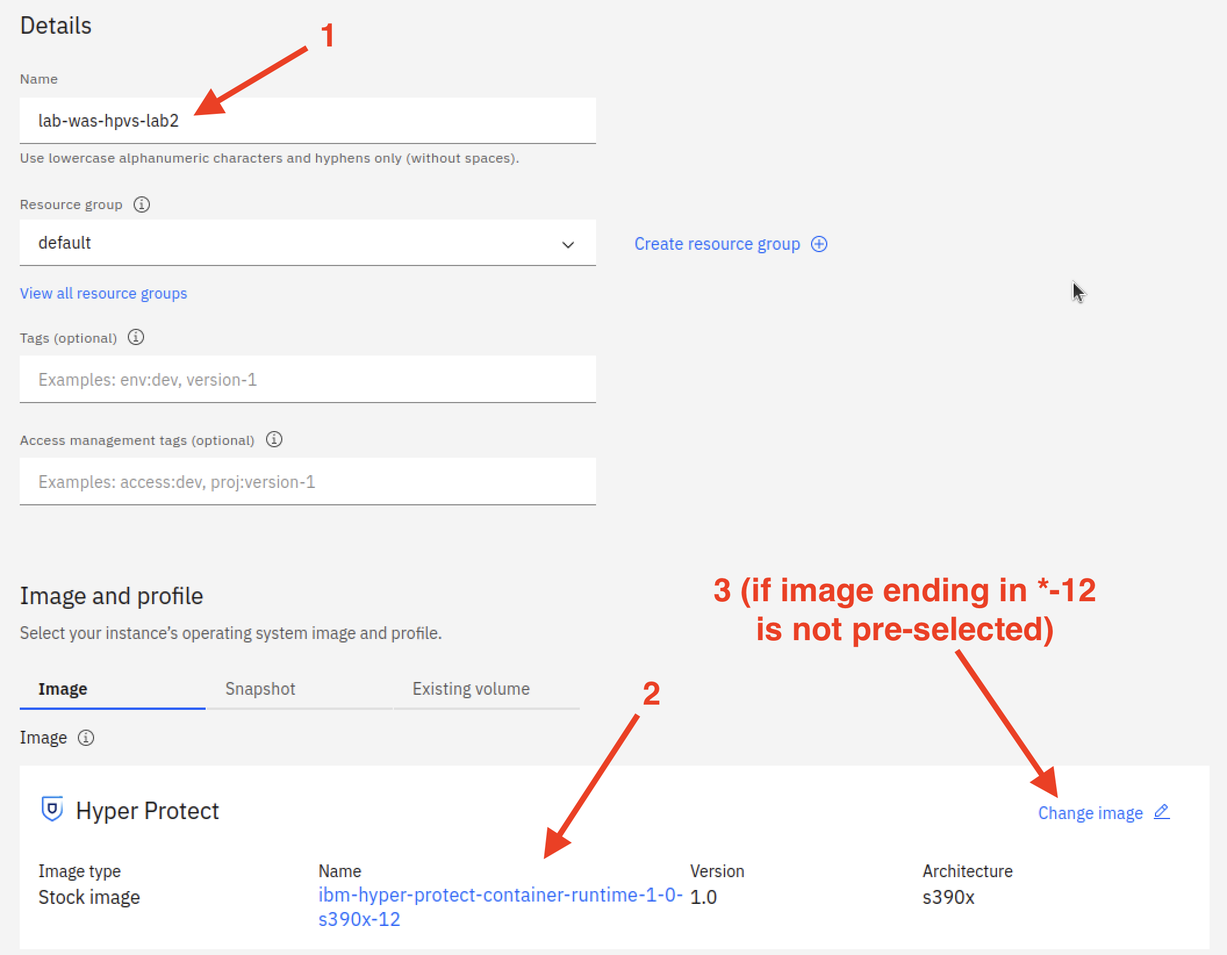
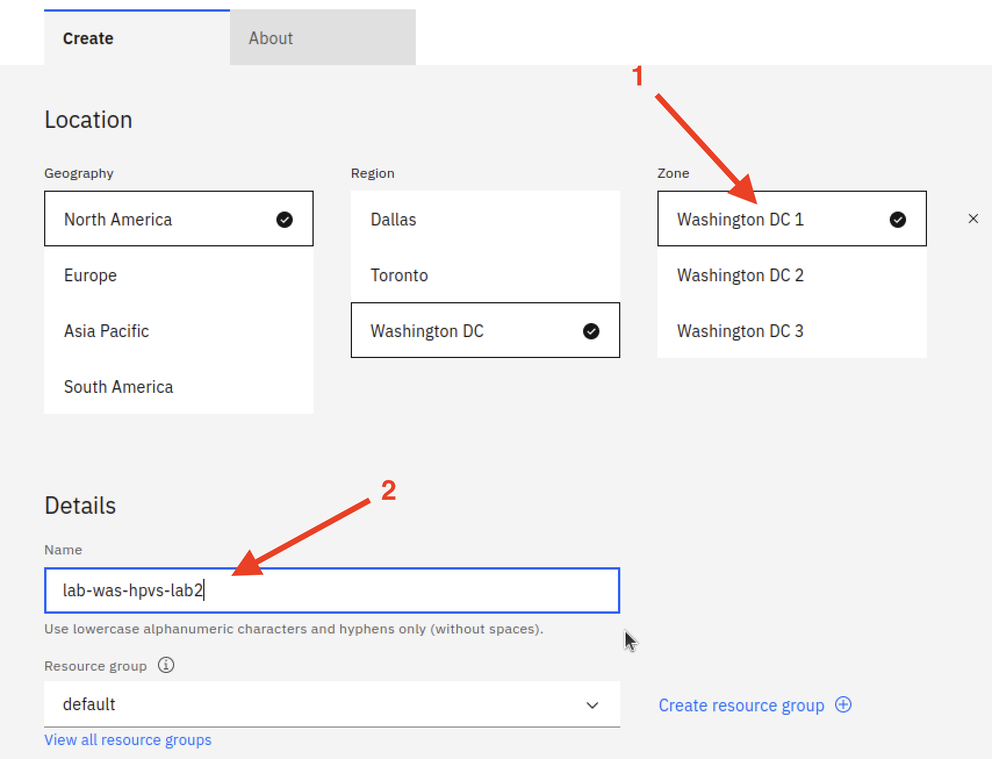
Update IBM Cloud-based labs
Notable things:
- Update to use latest HPCR image (*-13) in lieu of (*-12)
- Update to account for new UI flow to get to the HPCR image

diff --git a/docs/lab/cloud/lab4/createinstance.md b/docs/lab/cloud/lab4/createinstance.md
@@ -14,29 +14,39 @@ These instructions assume you are logged in to the IBM Cloud Web UI.  If not, pl
 
     <img src="../create020.png" width="531" height="287" />
 
-1. Click the link to create a virtual server instance
+2. Click the link to create a virtual server instance
 
     You may have to scroll down on the page- find and click on the "Create a virtual server instance" link:
 
     <img src="../create030.png" width="801" height="504" />
 
-1. In the *Architecture* section, click the **IBM Z, LinuxONE** tile.  At this point, a *Confidential Computing* toggle should appear.  Click it to select it.  Then, ensure that you select the correct *Zone*- that is, the one for whch you created a subnet earlier (assuming you followed the lab instructions and created only one subnet).   You are not finished filling out this screen yet, but see the below screen snippet for hints:
+3. In the *Location* section, ensure that you select the *Zone* that contains your subnet. Give your instance a name in the *Name* field in the *Details* section.  We chose *lab-was-hpvs-lab4* in the screen shot below:  
 
-    <img src="../create040.png" width="846" height="842" />
+    <img src="../create050.png" width="1692" height="1326" />
 
-1. Give your instance a name in the *Name* field in the *Details* section.  We chose *lab-was-hpvs-lab4* as shown in the screen shot below. Then, it is very important to select the *Version* that ends in "*-12*". If this version is not the default selection, click the **Change image** link to select it. See this screen snippet for guidance:
+4. Scroll down and click the **Change image** link to select it:
 
-    <img src="../create050.png" width="1122" height="760" />
+    <img src="../create052.png" width="2170" height="636" />
 
-1. Scroll down and in the *Advanced options* section, within the *Instance configuration* subsection, click the arrow at the right of the *User data* item.  Drag the lower right corner of the *User data* box that appears in order to enlarge it a bit, like we've done in the screen shot below:
+5. On the *Select an image* screen, perform the following actions:
+
+    1. Click the *IBM Z, Linux ONE* box.
+    2. Toggle the slider on for "Run your workload with an OS and a profile for Secure Execution".
+    3. Select the most recent image, *ibm-hyper-protect-container-runtime-1-0-s390x-13*.
+    4. Click the blue **Save** button.
+
+    <img src="../create053.png" width="2504" height="1746" />
+
+
+6. Scroll down and in the *Advanced options* section, within the *Instance configuration* subsection, click the arrow at the right of the *User data* item.  Drag the lower right corner of the *User data* box that appears in order to enlarge it a bit, like we've done in the screen shot below:
 
     <img src="../create060.png" width="1075" height="685" />
 
-1. At the end of the previous section of the lab, *Prepare the contract*, in the very last instruction, you displayed the contents of your `user_data.yaml`, on your prep system.  Go back to your prep system and copy the file contents that you displayed to your clipboard.  Then paste them into the *user data* box.  It should look similar to what is shown below. The screen shot below does not show the entire contract- the entire encrypted workload section and the top of the encrypted environment section is not visible in the screen shot, but we are showing the entire base64-encoded *envWorkloadSignature* section is shown:
+7. At the end of the previous section of the lab, *Prepare the contract*, in the very last instruction, you displayed the contents of your `user_data.yaml`, on your prep system.  Go back to your prep system and copy the file contents that you displayed to your clipboard.  Then paste them into the *user data* box.  It should look similar to what is shown below. The screen shot below does not show the entire contract- the entire encrypted workload section and the top of the encrypted environment section is not visible in the screen shot, but we are showing the entire base64-encoded *envWorkloadSignature* section is shown:
 
     <img src="../create070.png" width="535" height="878" />
 
-1. Go to your IBM Log Analysis Dashboard so you can verify that you receive log messages from the instance that you're about to create.
+8. Go to your IBM Log Analysis Dashboard so you can verify that you receive log messages from the instance that you're about to create.
 
     Open another tab in your browser and go to cloud.ibm.com.  Log in if necessary.  Assuming you're logged in, the below screenshot provides guidance on one way to get to your list of IBM Log Analysis instances:
 
@@ -46,15 +56,15 @@ These instructions assume you are logged in to the IBM Cloud Web UI.  If not, pl
 
     <img src="../create090.png" width="1204" height="261" />
 
-1. Now, go back to the tab where you were setting up your virtual server instance-  click the blue **Create virtual server** button in the lower right.  **Reminder: you may incur costs for this action, and these costs are your responsibility. We will provide instructions to delete resources that are no longer needed to help you minimize any costs you might incur.**
+9. Now, go back to the tab where you were setting up your virtual server instance-  click the blue **Create virtual server** button in the lower right.  **Reminder: you may incur costs for this action, and these costs are your responsibility. We will provide instructions to delete resources that are no longer needed to help you minimize any costs you might incur.**
 
     <img src="../create100.png" width="323" height="228" />
 
-1. Verify that your instance has started to come up.
+10. Verify that your instance has started to come up.
 
     Within a couple of minutes of starting your instance, you should see many messages appear in your IBM Log Analysis Dashboard. However, unlike the previous lab, the instance will not come up completely until you take further action- specifically, you need to attach the data volume that you created in the previous lab.  Continue with these instructions. 
 
-1. Attach the disk volume that you created in lab:
+11. Attach the disk volume that you created in lab:
 
     **Note:** The screen shots in this instruction are taken from the section for *lab 2* but the process is exactly the same for your *lab 4* instance, so don't be confused if you see '*lab 2*' in some of these screen snippets.
 
@@ -74,11 +84,11 @@ These instructions assume you are logged in to the IBM Cloud Web UI.  If not, pl
 
     <img src="../create108.png" width="1343" height="279" />
 
-1. Now that you have attached the disk volume, startup continues and completes. Within your IBM Log Analysis Dashboard you should be able to see some messages greeting *Lab 1 Student* and some messages greeting *Lab 3 Student* (and maybe with some messages to *Lab 2 Student*- extra credit if you understand why you may or may not see greetings to her)- this is data written from your earlier instances from the first three labs.  (You may need to scroll up to find them.) Then, this instance will provide similar greetings to *Lab 4 Student*- this provides a demonstration of successfully reusing a data volume to provide data persistence across different virtual server instances. 
+12. Now that you have attached the disk volume, startup continues and completes. Within your IBM Log Analysis Dashboard you should be able to see some messages greeting *Lab 1 Student* and some messages greeting *Lab 3 Student* (and maybe with some messages to *Lab 2 Student*- extra credit if you understand why you may or may not see greetings to her)- this is data written from your earlier instances from the first three labs.  (You may need to scroll up to find them.) Then, this instance will provide similar greetings to *Lab 4 Student*- this provides a demonstration of successfully reusing a data volume to provide data persistence across different virtual server instances. 
 
     If something went wrong in your setup of the contract that the hyper protect container runtime detects, your instance will automatically be stopped in five minutes.  So if you receive no messages within five minutes of starting your instance, it is time to contact your instructor.
 
-1. Delete your instance.
+13. Delete your instance.
 
     Your instance either started successfully- as evidenced by the display of earlier greetings to *Lab 1 Student* and *Lab 3 Student* and then periodic greetings to *Lab 4 Student*, or it failed to start successfully.  In either case you will want to delete your instance at this point.  
 
@@ -86,6 +96,5 @@ These instructions assume you are logged in to the IBM Cloud Web UI.  If not, pl
 
     <img src="../create110.png" width="1389" height="482" />
 
-1. Proceed to the next section to clean up all of the resources you created in these four labs.
-
+14. Proceed to the next section to clean up all of the resources you created in these four labs.
 

diff --git a/docs/lab/cloud/lab3/createinstance.md b/docs/lab/cloud/lab3/createinstance.md
@@ -14,29 +14,38 @@ These instructions assume you are logged in to the IBM Cloud Web UI.  If not, pl
 
     <img src="../create020.png" width="531" height="287" />
 
-1. Click the link to create a virtual server instance
+2. Click the link to create a virtual server instance
 
     You may have to scroll down on the page- find and click on the "Create a virtual server instance" link:
 
     <img src="../create030.png" width="801" height="504" />
 
-1. In the *Architecture* section, click the **IBM Z, LinuxONE** tile.  At this point, a *Confidential Computing* toggle should appear.  Click it to select it.  Then, ensure that you select the correct *Zone*- that is, the one for whch you created a subnet earlier (assuming you followed the lab instructions and created only one subnet).   You are not finished filling out this screen yet, but see the below screen snippet for hints:
+3. In the *Location* section, ensure that you select the *Zone* that contains your subnet. Give your instance a name in the *Name* field in the *Details* section.  We chose *lab-was-hpvs-lab3* in the screen shot below:  
 
-    <img src="../create040.png" width="846" height="842" />
+    <img src="../create050.png" width="1692" height="1326" />
 
-1. Give your instance a name in the *Name* field in the *Details* section.  We chose *lab-was-hpvs-lab3* in the screen shot below.  Then, it is very important to select the *Version* that ends in "*-12*". If this version is not the default selection, click the **Change image** link to select it. See this screen snippet for guidance:
+4. Scroll down and click the **Change image** link to select it:
 
-    <img src="../create050.png" width="1136" height="770" />
+    <img src="../create052.png" width="2170" height="636" />
 
-1. Scroll down and in the *Advanced options* section, within the *Instance configuration* subsection, click the arrow at the right of the *User data* item.  Drag the lower right corner of the *User data* box that appears in order to enlarge it a bit, like we've done in the screen shot below:
+5. On the *Select an image* screen, perform the following actions:
+
+    1. Click the *IBM Z, Linux ONE* box.
+    2. Toggle the slider on for "Run your workload with an OS and a profile for Secure Execution".
+    3. Select the most recent image, *ibm-hyper-protect-container-runtime-1-0-s390x-13*.
+    4. Click the blue **Save** button.
+
+    <img src="../create053.png" width="2504" height="1746" />
+
+6. Scroll down and in the *Advanced options* section, within the *Instance configuration* subsection, click the arrow at the right of the *User data* item.  Drag the lower right corner of the *User data* box that appears in order to enlarge it a bit, like we've done in the screen shot below:
 
     <img src="../create060.png" width="1075" height="685" />
 
-1. At the end of the previous section of the lab, *Prepare the contract*, in the very last instruction, you displayed the contents of your `user_data.yaml`, on your prep system.  Go back to your prep system and copy the file contents that you displayed to your clipboard.  Then paste them into the *user data* box.  It should look similar to what is shown below. The screen shot below does not show the entire contract- the top of the encrypted workload section is not visible in the screen shot, but we are showing the entire encrypted environment section:
+7. At the end of the previous section of the lab, *Prepare the contract*, in the very last instruction, you displayed the contents of your `user_data.yaml`, on your prep system.  Go back to your prep system and copy the file contents that you displayed to your clipboard.  Then paste them into the *user data* box.  It should look similar to what is shown below. The screen shot below does not show the entire contract- the top of the encrypted workload section is not visible in the screen shot, but we are showing the entire encrypted environment section:
 
     <img src="../create070.png" width="529" height="839" />
 
-1. Go to your IBM Log Analysis Dashboard so you can verify that you receive log messages from the instance that you're about to create.
+8. Go to your IBM Log Analysis Dashboard so you can verify that you receive log messages from the instance that you're about to create.
 
     Open another tab in your browser and go to cloud.ibm.com.  Log in if necessary.  Assuming you're logged in, the below screenshot provides guidance on one way to get to your list of IBM Log Analysis instances:
 
@@ -46,15 +55,15 @@ These instructions assume you are logged in to the IBM Cloud Web UI.  If not, pl
 
     <img src="../create090.png" width="1204" height="261" />
 
-1. Now, go back to the tab where you were setting up your virtual server instance-  click the blue **Create virtual server** button in the lower right.  **Reminder: you may incur costs for this action, and these costs are your responsibility. We will provide instructions to delete resources that are no longer needed to help you minimize any costs you might incur.**
+9. Now, go back to the tab where you were setting up your virtual server instance-  click the blue **Create virtual server** button in the lower right.  **Reminder: you may incur costs for this action, and these costs are your responsibility. We will provide instructions to delete resources that are no longer needed to help you minimize any costs you might incur.**
 
     <img src="../create100.png" width="323" height="228" />
 
-1. Verify that your instance has started to come up.
+10. Verify that your instance has started to come up.
 
     Within a couple of minutes of starting your instance, you should see many messages appear in your IBM Log Analysis Dashboard. However, unlike the previous lab, the instance will not come up completely until you take further action- specifically, you need to attach the data volume that you created in the previous lab.  Continue with these instructions. 
 
-1. Attach the disk volume that you created in lab:
+11. Attach the disk volume that you created in lab:
 
     **Note:** The screen shots in this instruction are taken from the section for *lab 2* but the process is exactly the same for your *lab 3* instance, so don't be confused if you see '*lab 2*' in some of these screen snippets.
 
@@ -74,11 +83,11 @@ These instructions assume you are logged in to the IBM Cloud Web UI.  If not, pl
 
     <img src="../create108.png" width="1343" height="279" />
 
-1. Now that you have attached the disk volume, startup continues and completes. Within your IBM Log Analysis Dashboard you should be able to see some messages greeting *Lab 1 Student* and some messages greeting *Lab 2 Student*- this is data written from your earlier instances from labs 1 and 2.  (You may need to scroll up to find them.) Then, this instance will provide similar greetings to *Lab 3 Student*- this provides a demonstration of successfully reusing a data volume to provide data persistence across different virtual server instances. 
+12. Now that you have attached the disk volume, startup continues and completes. Within your IBM Log Analysis Dashboard you should be able to see some messages greeting *Lab 1 Student* and some messages greeting *Lab 2 Student*- this is data written from your earlier instances from labs 1 and 2.  (You may need to scroll up to find them.) Then, this instance will provide similar greetings to *Lab 3 Student*- this provides a demonstration of successfully reusing a data volume to provide data persistence across different virtual server instances. 
 
     If something went wrong in your setup of the contract that the hyper protect container runtime detects, your instance will automatically be stopped in five minutes.  So if you receive no messages within five minutes of starting your instance, it is time to contact your instructor.
 
-1. Delete your instance.
+13. Delete your instance.
 
     Your instance either started successfully- as evidenced by the display of earlier greetings to *Lab 1 Student* and *Lab 2 Student* and then periodic greetings to *Lab 3 Student*, or it failed to start successfully.  In either case you will want to delete your instance at this point.  Future labs will use the data volume that you created, but your current instance is no longer needed- in fact, leaving it around hinders subsequent labs-  you won't be able to reuse your disk volume if it is still attached to this instance. 
 
@@ -86,6 +95,6 @@ These instructions assume you are logged in to the IBM Cloud Web UI.  If not, pl
 
     <img src="../create110.png" width="1389" height="482" />
 
-1. Proceed to lab 4 if your instance was successful or seek help from the instructors if your instance creation was not successful.
+14. Proceed to lab 4 if your instance was successful or seek help from the instructors if your instance creation was not successful.
 
 

diff --git a/docs/lab/cloud/lab1/createinstance.md b/docs/lab/cloud/lab1/createinstance.md
@@ -14,21 +14,30 @@ These instructions assume you are logged in to the IBM Cloud Web UI.  If not, pl
 
     <img src="../create020.png" width="531" height="287" />
 
-1. Click the link to create a virtual server instance
+2. Click the link to create a virtual server instance
 
     You may have to scroll down on the page- find and click on the "Create a virtual server instance" link:
 
     <img src="../create030.png" width="801" height="504" />
 
-1. In the *Architecture* section, click the **IBM Z, LinuxONE** tile.  At this point, a *Confidential Computing* toggle should appear.  Click it to select it.  Then, ensure that you select the correct *Zone*- that is, the one for whch you created a subnet earlier (assuming you followed the lab instructions and created only one subnet).   You are not finished filling out this screen yet, but see the below screen snippet for hints:
+3. In the *Location* section, ensure that you select the *Zone* that contains your subnet. Give your instance a name in the *Name* field in the *Details* section.  We chose *lab-was-hpvs-lab1* in the screen shot below:  
 
-    <img src="../create040.png" width="800" height="740" />
+    <img src="../create050.png" width="1692" height="1326" />
 
-1. Give your instance a name in the *Name* field in the *Details* section.  We chose *lab-was-hpvs-lab1* in the screen shot below.  Then, it is very important to select the *Version* that ends in "*-12*". If this version is not the default selection, click the **Change image** link to select it.  Hopefully this screen snippet clarifies this:
+4. Scroll down and click the **Change image** link to select it:
 
-    <img src="../create050.png" width="1160" height="852" />
+    <img src="../create052.png" width="2170" height="636" />
 
-1. These labs are going to demonstrate data persistence across virtual server instances, and for this you will need a data volume.  You will create the data volume in this lab and then reuse it in subsequent labs. In the *Storage* section, click the **Create** button in the *Data volumes* section:
+5. On the *Select an image* screen, perform the following actions:
+
+    1. Click the *IBM Z, Linux ONE* box.
+    2. Toggle the slider on for "Run your workload with an OS and a profile for Secure Execution".
+    3. Select the most recent image, *ibm-hyper-protect-container-runtime-1-0-s390x-13*.
+    4. Click the blue **Save** button.
+
+    <img src="../create053.png" width="2504" height="1746" />
+
+6. These labs are going to demonstrate data persistence across virtual server instances, and for this you will need a data volume.  You will create the data volume in this lab and then reuse it in subsequent labs. In the *Storage* section, click the **Create** button in the *Data volumes* section:
 
     <img src="../create054.png" width="1447" height="359" />
 
@@ -40,13 +49,13 @@ These instructions assume you are logged in to the IBM Cloud Web UI.  If not, pl
 
     <img src="../create058.png" width="1272" height="244" />
 
-1. Scroll down and in the *Advanced options* section, within the *Instance configuration* subsection, click the arrow at the right of the *User data* item.  Drag the lower right corner of the *User data* box that appears in order to enlarge it a bit, like we've done in the screen shot below:
+7. Scroll down and in the *Advanced options* section, within the *Instance configuration* subsection, click the arrow at the right of the *User data* item.  Drag the lower right corner of the *User data* box that appears in order to enlarge it a bit, like we've done in the screen shot below:
 
     <img src="../create060.png" width="1075" height="685" />
 
-1. At the end of the previous section of the lab, *Prepare the contract*, in the very last instruction, you displayed the contents of your `user_data.yaml`, on your prep system.  Go back to your prep system and copy the file contents that you displayed to your clipboard.  Then paste them into the *user data* box.  It should look similar to what is shown below-  we've redacted our IBM Log Analysis ingestion key from the screen shot, but you'll want your actual ingestion key to be in there. Also, for the purposes of the screen shot, we enlarged our *User data* box to be large enough to show the entire contract.  This isn't necessary to do, and for most larger contracts it will often not be possible to do so- you'll always be able to scroll in this area to see the entirety of what you pasted. See the screenshot below:
+8. At the end of the previous section of the lab, *Prepare the contract*, in the very last instruction, you displayed the contents of your `user_data.yaml`, on your prep system.  Go back to your prep system and copy the file contents that you displayed to your clipboard.  Then paste them into the *user data* box.  It should look similar to what is shown below-  we've redacted our IBM Log Analysis ingestion key from the screen shot, but you'll want your actual ingestion key to be in there. Also, for the purposes of the screen shot, we enlarged our *User data* box to be large enough to show more of the contract. Don't worry if your entire contract can't be displayed in the *User data* box since you can scroll in this area to see the entirety of what you pasted. See the screenshot below:
 
-    <img src="../create070.png" width="533" height="809" />
+    <img src="../create070.png" width="1862" height="1718" />
 
 1. Go to your IBM Log Analysis Dashboard so you can verify that you receive log messages from the instance that you're about to create.
 

diff --git a/docs/lab/cloud/lab2/createinstance.md b/docs/lab/cloud/lab2/createinstance.md
@@ -14,19 +14,28 @@ These instructions assume you are logged in to the IBM Cloud Web UI.  If not, pl
 
     <img src="../create020.png" width="531" height="287" />
 
-1. Click the link to create a virtual server instance
+2. Click the link to create a virtual server instance
 
     You may have to scroll down on the page- find and click on the "Create a virtual server instance" link:
 
     <img src="../create030.png" width="801" height="504" />
 
-1. In the *Architecture* section, click the **IBM Z, LinuxONE** tile.  At this point, a *Confidential Computing* toggle should appear.  Click it to select it.  Then, ensure that you select the correct *Zone*- that is, the one for whch you created a subnet earlier (assuming you followed the lab instructions and created only one subnet).   You are not finished filling out this screen yet, but see the below screen snippet for hints:
+3. In the *Location* section, ensure that you select the *Zone* that contains your subnet. Give your instance a name in the *Name* field in the *Details* section.  We chose *lab-was-hpvs-lab2* in the screen shot below:  
 
-    <img src="../create040.png" width="846" height="842" />
+    <img src="../create050.png" width="1692" height="1326" />
 
-1. Give your instance a name in the *Name* field in the *Details* section.  We chose *lab-was-hpvs-lab2* in the screen shot below.  Then, it is very important to select the *Version* that ends in "*-12*". If this version is not the default selection, click the **Change image** link to select it.  Use this screen snippet as guidance:
+4. Scroll down and click the **Change image** link to select it:
 
-    <img src="../create050.png" width="1143" height="843" />
+    <img src="../create052.png" width="2170" height="636" />
+
+5. On the *Select an image* screen, perform the following actions:
+
+    1. Click the *IBM Z, Linux ONE* box.
+    2. Toggle the slider on for "Run your workload with an OS and a profile for Secure Execution".
+    3. Select the most recent image, *ibm-hyper-protect-container-runtime-1-0-s390x-13*.
+    4. Click the blue **Save** button.
+
+    <img src="../create053.png" width="2504" height="1746" />
 
 1. At this point in lab 1, you created a data volume that you will use across the labs.  You will **not** be able to attach that data volume until after you start your virtual server instance, so, continue with the next instruction. 
 
@@ -36,7 +45,7 @@ These instructions assume you are logged in to the IBM Cloud Web UI.  If not, pl
 
 1. At the end of the previous section of the lab, *Prepare the contract*, in the very last instruction, you displayed the contents of your `user_data.yaml`, on your prep system.  Go back to your prep system and copy the file contents that you displayed to your clipboard.  Then paste them into the *user data* box.  It should look similar to what is shown below-  we've redacted our IBM Log Analysis ingestion key from the screen shot, but you'll want your actual ingestion key to be in there. The screen shot below does not show the entire contract- the top of the encrypted workload section is not visible in the screen shot, but we are showing the entire unencrypted environment section:
 
-    <img src="../create070.png" width="533" height="809" />
+    <img src="../create070.png" width="1844" height="1688" />
 
 1. Go to your IBM Log Analysis Dashboard so you can verify that you receive log messages from the instance that you're about to create.
 

diff --git a/docs/lab/cloud/lab3/prepcontract.md b/docs/lab/cloud/lab3/prepcontract.md
@@ -114,7 +114,7 @@
     \$(cat play/play.yml)" > \${WORKLOAD_PLAIN}
     
     # Download certificate to encrypt contract for Hyper Protect Container Runtime:
-    HPCR_rev=12
+    HPCR_rev=13
     CONTRACT_KEY=./ibm-hyper-protect-container-runtime-1-0-s390x-\${HPCR_rev}-encrypt.crt
     curl https://cloud.ibm.com/media/docs/downloads/hyper-protect-container-runtime/ibm-hyper-protect-container-runtime-1-0-s390x-\${HPCR_rev}-encrypt.crt > \${CONTRACT_KEY}
     
@@ -188,7 +188,7 @@
           seed: seed-supplied-by-env-persona" > \${ENV_PLAIN}
     
     # Download certificate to encrypt contract for Hyper Protect Container Runtime:
-    HPCR_rev=12
+    HPCR_rev=13
     CONTRACT_KEY=./ibm-hyper-protect-container-runtime-1-0-s390x-\${HPCR_rev}-encrypt.crt
     curl https://cloud.ibm.com/media/docs/downloads/hyper-protect-container-runtime/\$CONTRACT_KEY > \$CONTRACT_KEY
     

diff --git a/docs/lab/cloud/lab4/prepcontract.md b/docs/lab/cloud/lab4/prepcontract.md
@@ -106,7 +106,7 @@
     \$(cat play/play.yml)" > \${WORKLOAD_PLAIN}
     
     # Download certificate to encrypt contract for Hyper Protect Container Runtime:
-    HPCR_rev=12
+    HPCR_rev=13
     CONTRACT_KEY=./ibm-hyper-protect-container-runtime-1-0-s390x-\${HPCR_rev}-encrypt.crt
     curl https://cloud.ibm.com/media/docs/downloads/hyper-protect-container-runtime/ibm-hyper-protect-container-runtime-1-0-s390x-\${HPCR_rev}-encrypt.crt > \${CONTRACT_KEY}
     
@@ -163,7 +163,7 @@
     cat ./pubSigningKey.yaml >> \${ENV_PLAIN}
 
     # Download certificate to encrypt contract for Hyper Protect Container Runtime:
-    HPCR_rev=12
+    HPCR_rev=13
     CONTRACT_KEY=./ibm-hyper-protect-container-runtime-1-0-s390x-\${HPCR_rev}-encrypt.crt
     curl https://cloud.ibm.com/media/docs/downloads/hyper-protect-container-runtime/\$CONTRACT_KEY > \$CONTRACT_KEY
     

diff --git a/docs/lab/cloud/lab2/prepcontract.md b/docs/lab/cloud/lab2/prepcontract.md
@@ -115,7 +115,7 @@
     \$(cat play/play.yml)" > \${WORKLOAD_PLAIN}
     
     # Download certificate to encrypt contract for Hyper Protect Container Runtime:
-    HPCR_rev=12
+    HPCR_rev=13
     CONTRACT_KEY=./ibm-hyper-protect-container-runtime-1-0-s390x-\${HPCR_rev}-encrypt.crt
     curl https://cloud.ibm.com/media/docs/downloads/hyper-protect-container-runtime/ibm-hyper-protect-container-runtime-1-0-s390x-\${HPCR_rev}-encrypt.crt > \${CONTRACT_KEY}
     
